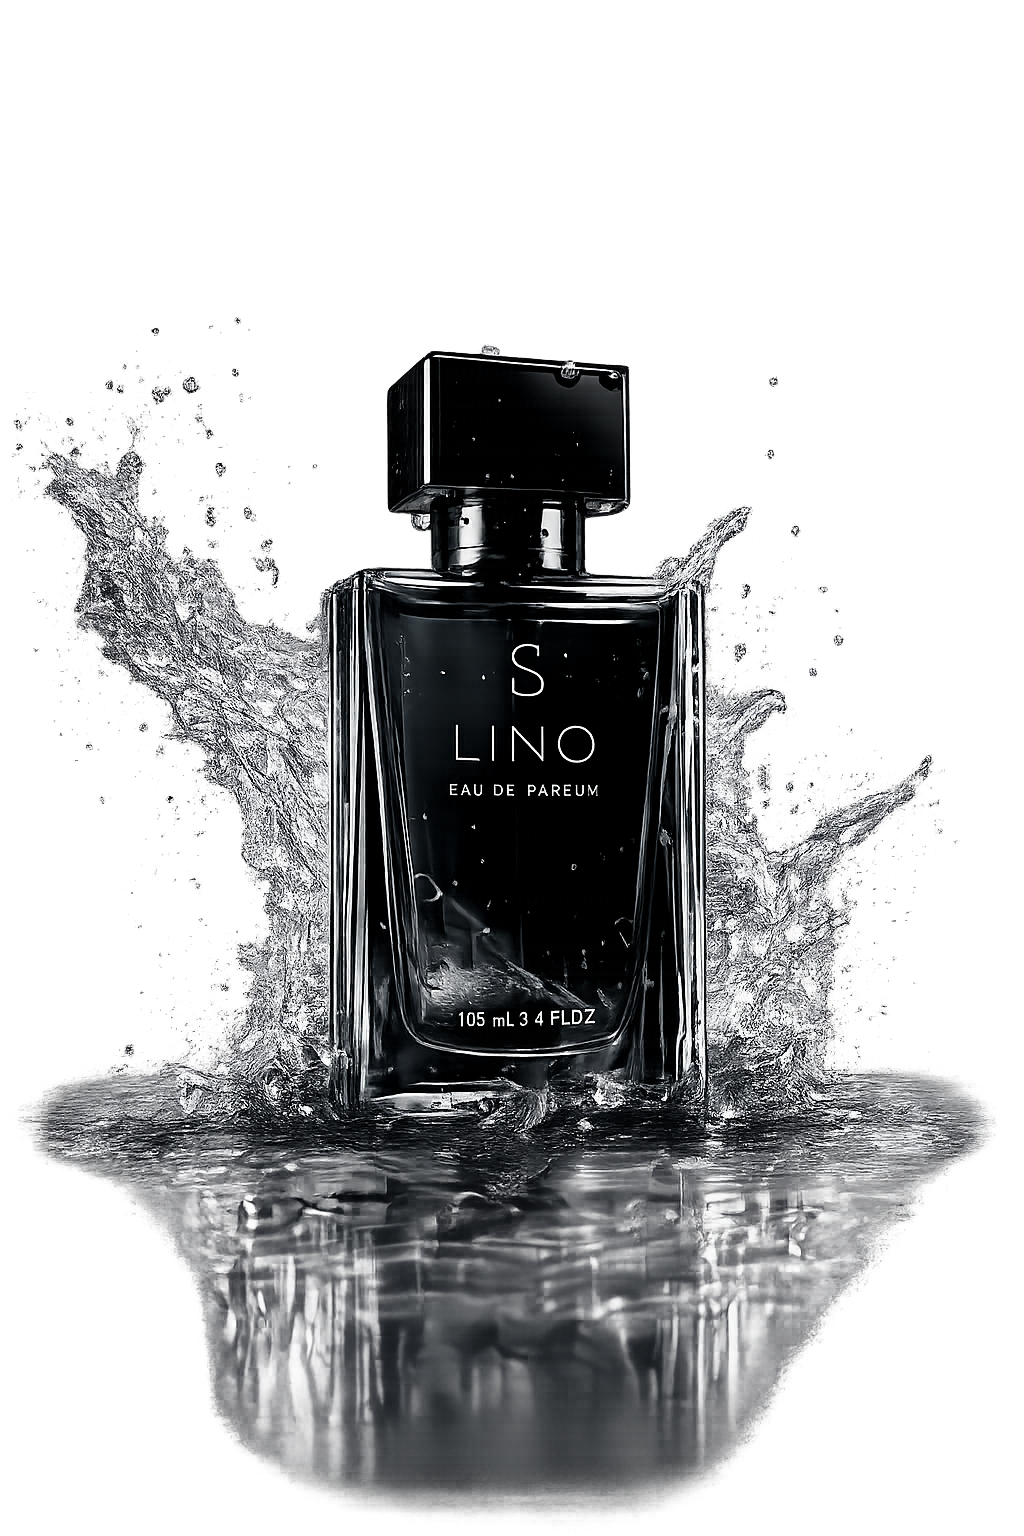
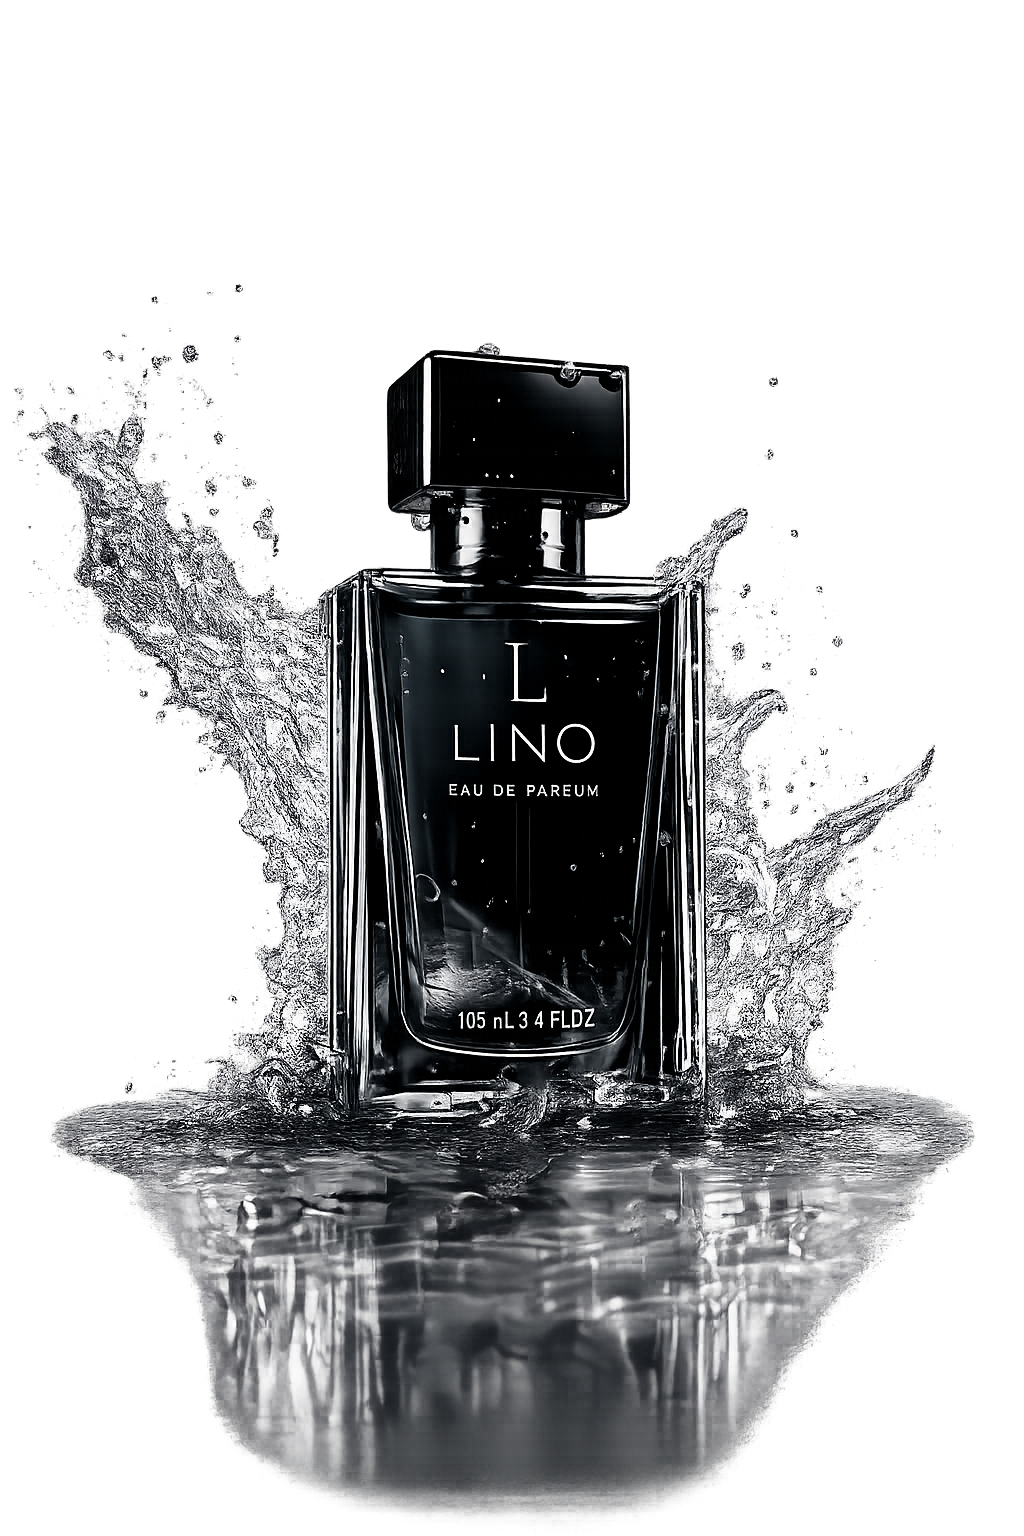
story page update

Changed region(s): [[0.0312, 0.2188, 0.9688, 0.8125], [0.4688, 0.2188, 0.625, 0.2812], [0.1875, 0.8125, 0.2188, 0.8438]]

diff --git a/static/css/footer.css b/static/css/footer.css
@@ -427,15 +427,35 @@
 
 .footer-bottom{
 
-    display:flex;
+    display:grid;
 
-    justify-content:space-between;
+    grid-template-columns:1fr 1fr 1fr;
 
     align-items:center;
 
     gap:40px;
 
     padding-bottom:45px;
+
+}
+
+.footer-social{
+
+    justify-self:start;
+
+}
+
+.footer-copyright{
+
+    justify-self:center;
+
+    text-align:center;
+
+}
+
+.footer-payment{
+
+    justify-self:end;
 
 }
 
@@ -501,13 +521,25 @@
 
 .footer-copyright{
 
+    width:100%;
+
+    text-align:center;
+
+    display:flex;
+
+    flex-direction:column;
+
+    justify-content:center;
+
+    align-items:center;
+
+    gap:8px;
+
     font-size:14px;
 
     color:#9f9f9f;
 
     letter-spacing:.5px;
-
-    text-align:center;
 
 }
 
@@ -786,13 +818,6 @@
 
     }
 
-    .footer-copyright{
-
-        font-size:13px;
-
-        line-height:1.8;
-
-    }
 
 }
 

diff --git a/templates/app/footer.html b/templates/app/footer.html
@@ -150,7 +150,27 @@
 
             <!--============================-->
 
-            <div class="footer-newsletter">
+            <div class="footer-payment">
+
+                <span>
+
+                    Secure Payments
+
+                </span>
+
+                <i class="fa-brands fa-cc-visa"></i>
+
+                <i class="fa-brands fa-cc-mastercard"></i>
+
+                <i class="fa-brands fa-cc-amex"></i>
+
+                <i class="fa-brands fa-cc-paypal"></i>
+
+            </div>
+
+            <!-- <div class="footer-newsletter">
+
+
 
                 <h4>
 
@@ -179,7 +199,7 @@
 
                 </form>
 
-            </div>
+            </div> -->
 
         </div>
 
@@ -255,23 +275,6 @@
 </div>
 
 
-            <div class="footer-payment">
-
-                <span>
-
-                    Secure Payments
-
-                </span>
-
-                <i class="fa-brands fa-cc-visa"></i>
-
-                <i class="fa-brands fa-cc-mastercard"></i>
-
-                <i class="fa-brands fa-cc-amex"></i>
-
-                <i class="fa-brands fa-cc-paypal"></i>
-
-            </div>
 
         </div>
 

diff --git a/static/js/quick-view.js b/static/js/quick-view.js
@@ -55,6 +55,7 @@ buttons.forEach(button => {
 
     if (button.dataset.link) {
         quickLink.href = button.dataset.link;
+        console.log("DATA LINK:", button.dataset.link);
         console.log(quickLink.href);
     }
 
@@ -335,24 +336,6 @@ document.body.style.overflow = "";
             closeModal();
 
         }
-
-    if (quickLink) {
-
-    quickLink.addEventListener("click", function (e) {
-
-        e.preventDefault();
-
-        const url = this.href;
-
-        closeModal();
-
-        setTimeout(() => {
-            window.location.href = url;
-        }, 300);
-
-    });
-
-}
 
     });
 

diff --git a/templates/app/home.html b/templates/app/home.html
@@ -415,19 +415,18 @@ LINO | Crafted Beyond Fragrance
 
                 </p>
 
-                <a href="href="{% url 'story' %}""
+                <a href="{% url 'story' %}"
+   class="btn-luxury">
 
-                   class="btn-luxury">
+    <span>
 
-                    <span>
+        Read Our Story
 
-                        Read Our Story
+    </span>
 
-                    </span>
+    <i class="fa-solid fa-arrow-right-long"></i>
 
-                    <i class="fa-solid fa-arrow-right-long"></i>
-
-                </a>
+</a>
 
             </div>
 